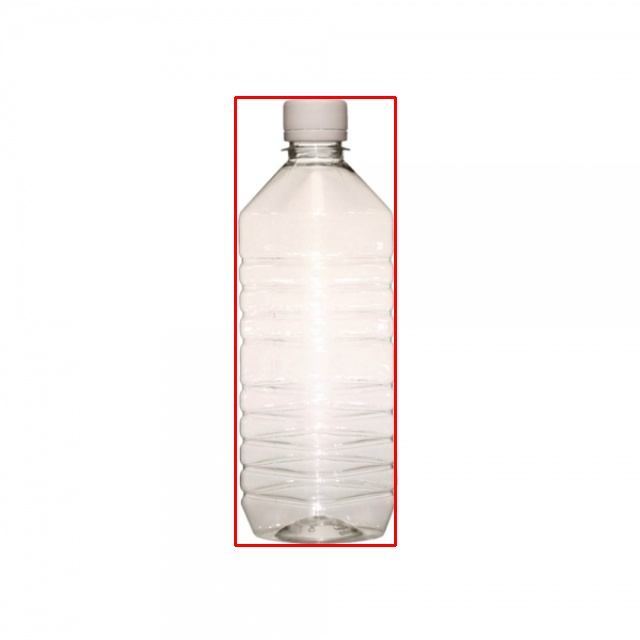
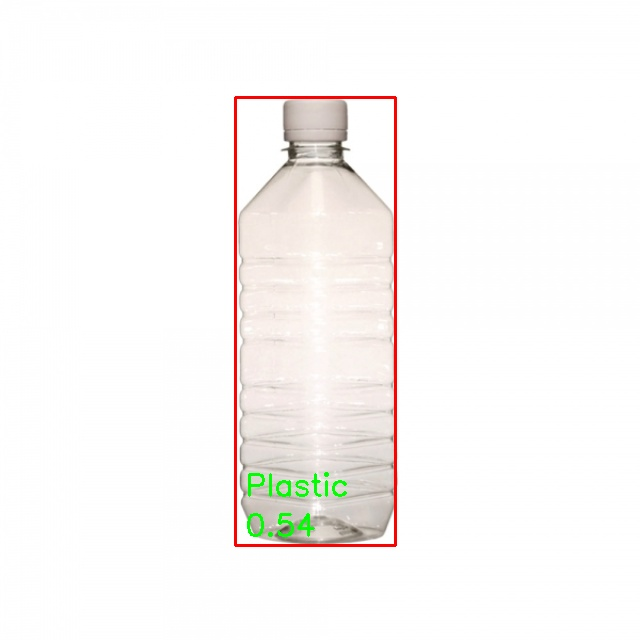
API 전송 수정

Changed region(s): [[0.375, 0.7188, 0.5625, 0.8438]]

diff --git a/Web/recycle_predict.py b/Web/recycle_predict.py
@@ -50,9 +50,11 @@ def predict():
     h, w, c = image.shape
     image = cv2.resize(image, (640,640))
 
+    threshold = []
+
     # predict에 따른 rectangle 그리기
     for box, cls_number, conf in zip(boxes, cls, conf):
-        # conf_number = float(conf.item())    # 왜 있는지는 모르겠음...
+        conf_number = str(float(conf.item()).__round__(2))    # 확률값
         cls_number_int = int(cls_number.item())
         cls_name = cls_dict[cls_number_int]
         x1, y1 ,x2 ,y2 = box
@@ -70,16 +72,23 @@ def predict():
         x2_scale = int(x2_int * scale_factor_x)
         y2_scale = int(y2_int * scale_factor_y)
 
+        image = cv2.putText(image, cls_name, (x1_scale+10, y2_scale-50), cv2.FONT_HERSHEY_SIMPLEX, 1, (0,255,0), 2)     #이미지에 텍스트 넣기
+        image = cv2.putText(image, conf_number, (x1_scale+10, y2_scale-10), cv2.FONT_HERSHEY_SIMPLEX, 1, (0,255,0), 2)     #이미지에 텍스트 넣기
         image = cv2.rectangle(image, (x1_scale, y1_scale), (x2_scale, y2_scale), (0,0,255), 2)
 
     cv2.imwrite("./results/" + imagename, image) # 결과 사진 저장
-    cv2.imshow("Test", image)
+    #cv2.imshow("Test", image)
     cv2.waitKey(0)
     #--------------------------------------------------------------------------------------------
 
     # list, json
-    response = make_response()  # 탐지 결과 사진 전달
+    #text_data = "results"
+    #response = make_response(text_data)  # 탐지 결과 사진 전달
+    #response.headers['Content-Type'] = 'text/plain'
     
+    #이미지 파일 첨부 
+    #response.set_data("./results/" + imagename)
+
     return send_file("./results/" + imagename, mimetype='image/jpeg')
 
 
